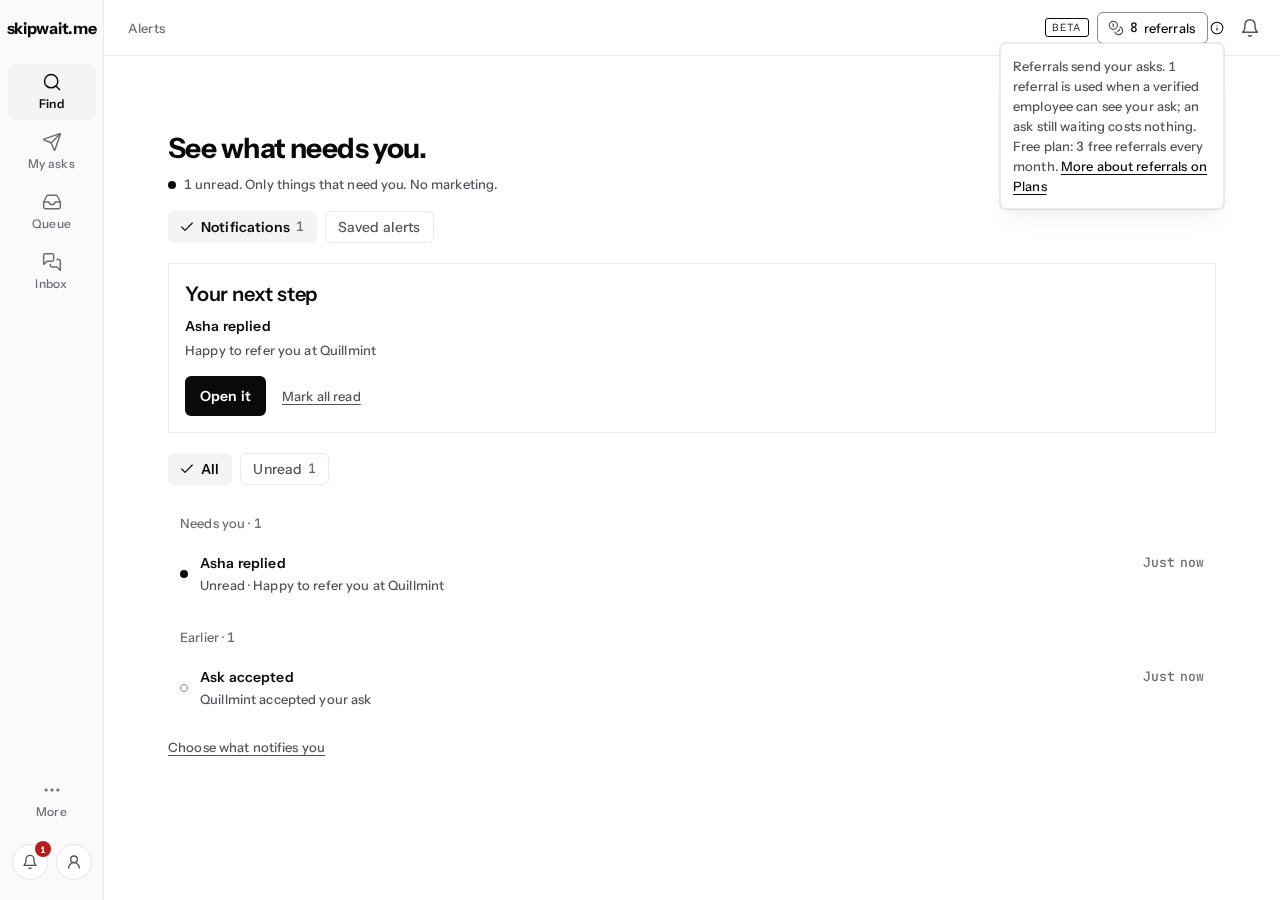
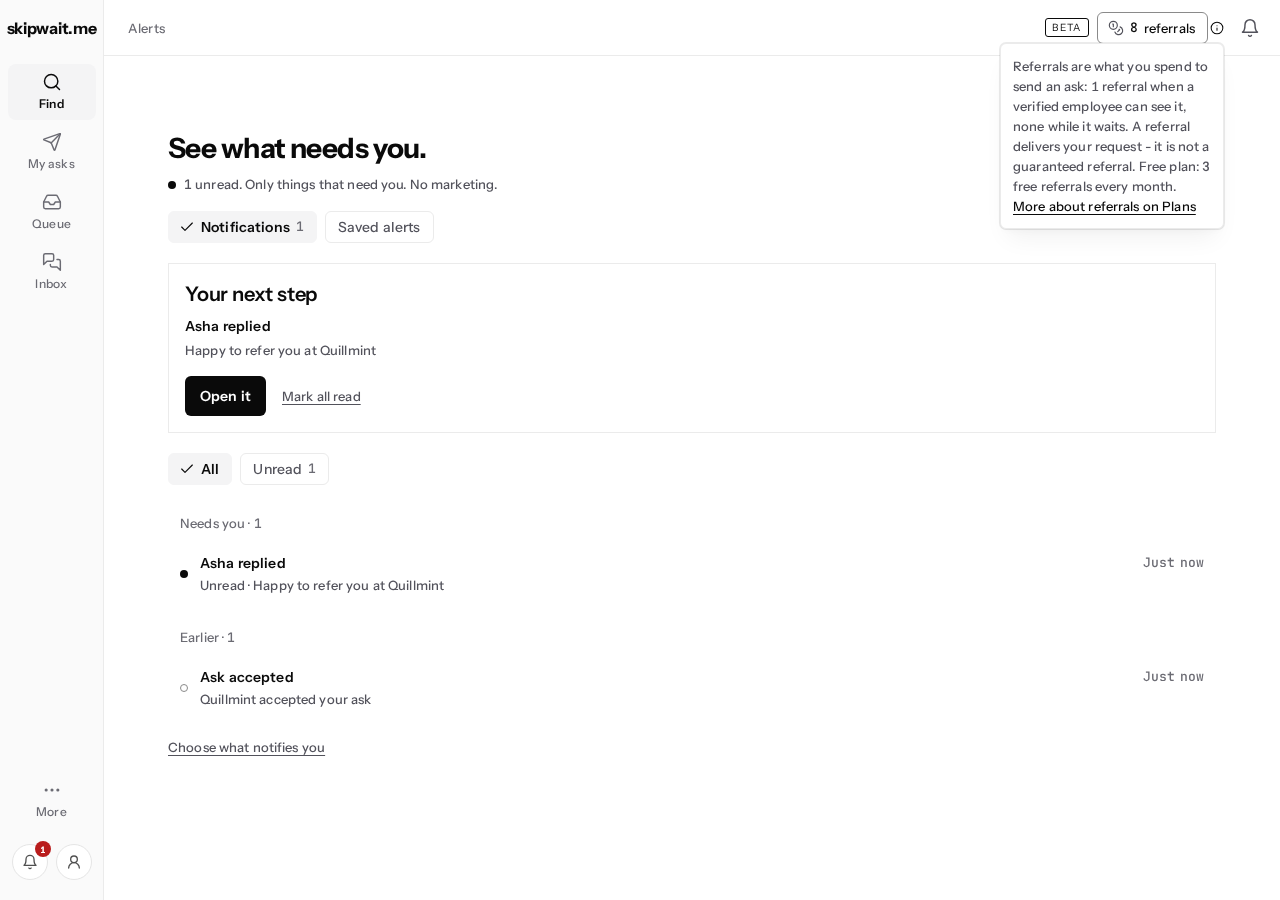
D-048-alerts: explain a referral is a delivered request, not a guaranteed one
Note copy now says referrals are spent to send an ask (1 when a verified
employee can see it, none while it waits) and explicitly that a referral
delivers the request without guaranteeing the referral, so the allowance
unit is not confused with a successful referral.

Changed region(s): [[0.7812, 0.0622, 0.9375, 0.2489]]

diff --git a/client/src/components/goal/GoalShell.tsx b/client/src/components/goal/GoalShell.tsx
@@ -67,7 +67,7 @@ function CreditsPill({ credits, compact }: { credits: GoalShellCredits; compact?
         {compact ? null : <span>{" "}referrals</span>}
       </a>
       <GoalInfoNote label="What are referrals?">
-        Referrals send your asks. 1 referral is used when a verified employee can see your ask; an ask still waiting costs nothing. Free plan: 3 free referrals every month.{" "}
+        Referrals are what you spend to send an ask: 1 referral when a verified employee can see it, none while it waits. A referral delivers your request - it is not a guaranteed referral. Free plan: 3 free referrals every month.{" "}
         <a href="/plans" className="text-g-ink underline underline-offset-[3px]">More about referrals on Plans</a>
       </GoalInfoNote>
     </span>

diff --git a/client/src/components/goal/goalInfoNote.test.tsx b/client/src/components/goal/goalInfoNote.test.tsx
@@ -9,7 +9,7 @@ import { GoalInfoNote } from "@/components/goal/GoalInfoNote";
 function renderNote() {
   return render(
     <GoalInfoNote label="What are referrals?">
-      Referrals send your asks. 1 referral is used when a verified employee can see your ask; an ask still waiting costs nothing.{" "}
+      Referrals are what you spend to send an ask: 1 referral when a verified employee can see it, none while it waits. A referral delivers your request - it is not a guaranteed referral.{" "}
       <a href="/plans">More about referrals on Plans</a>
     </GoalInfoNote>,
   );
